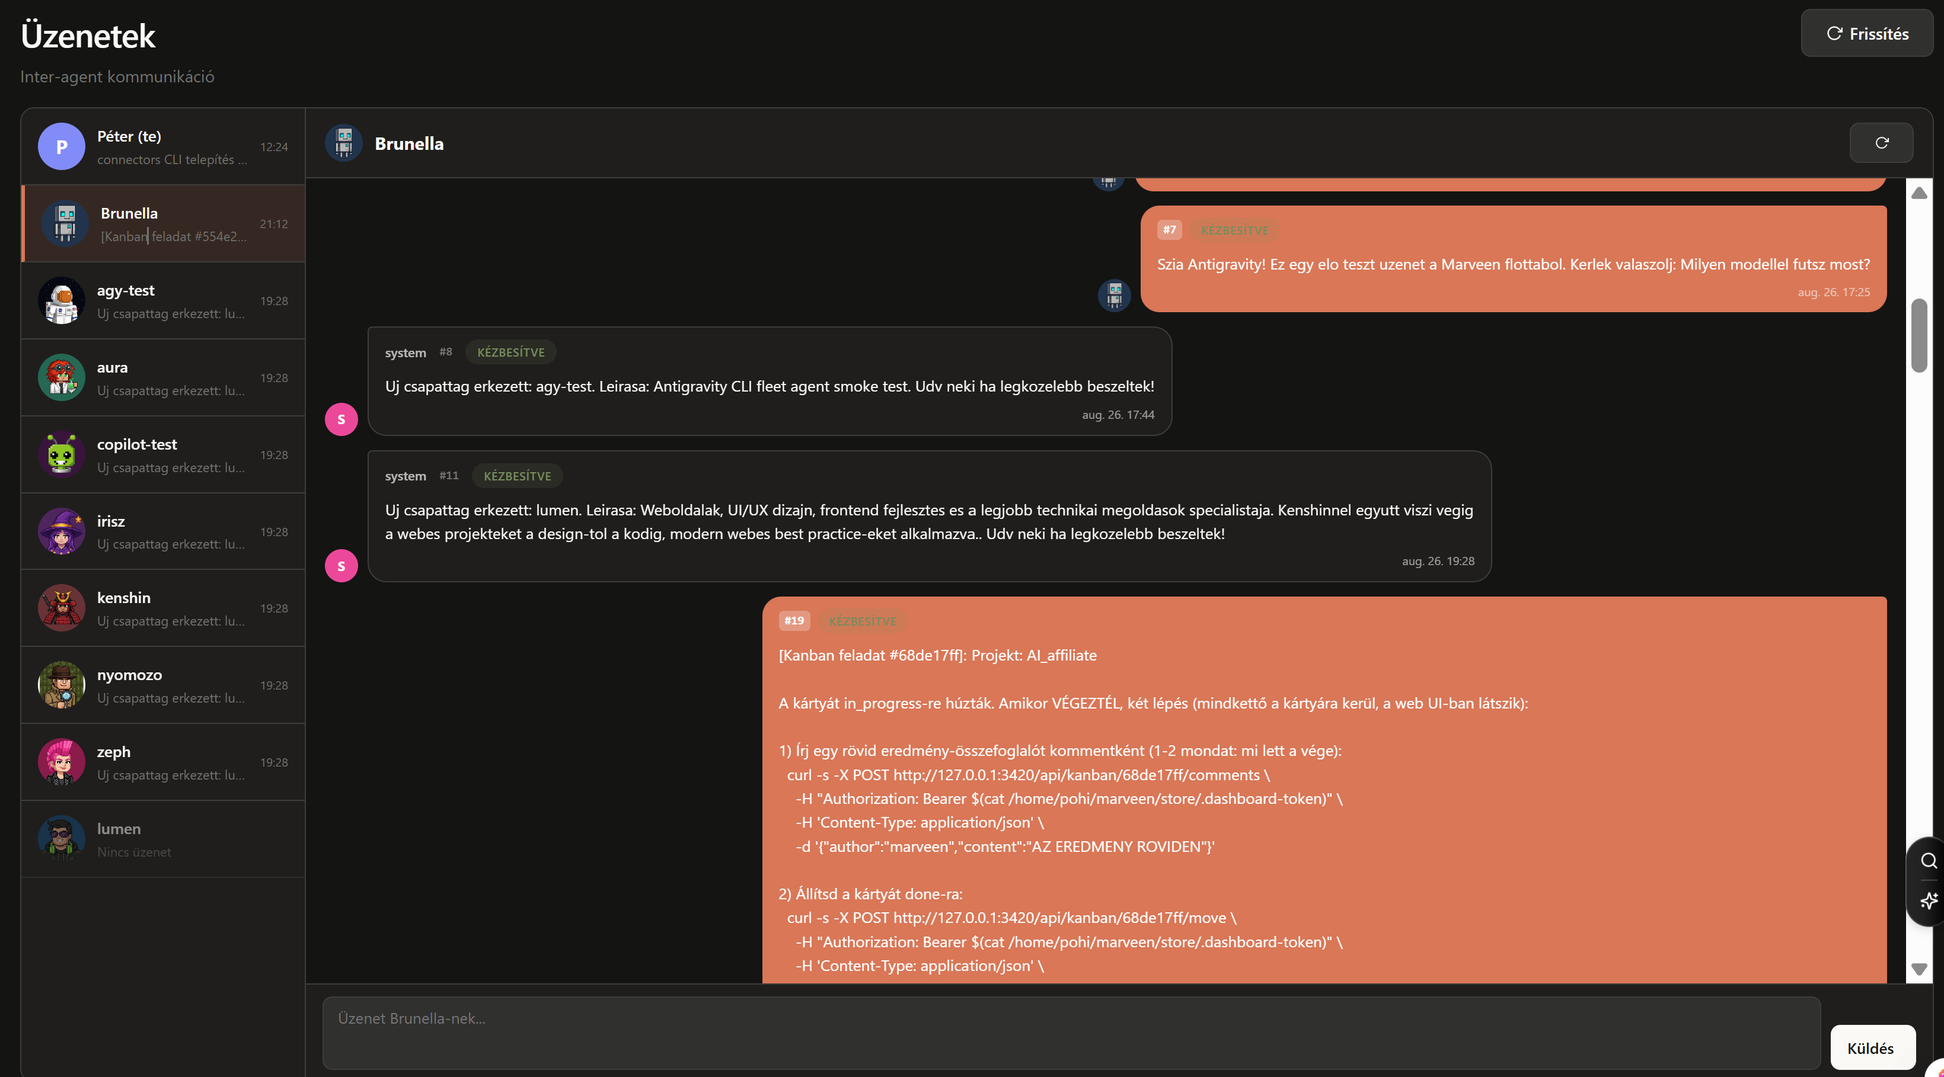
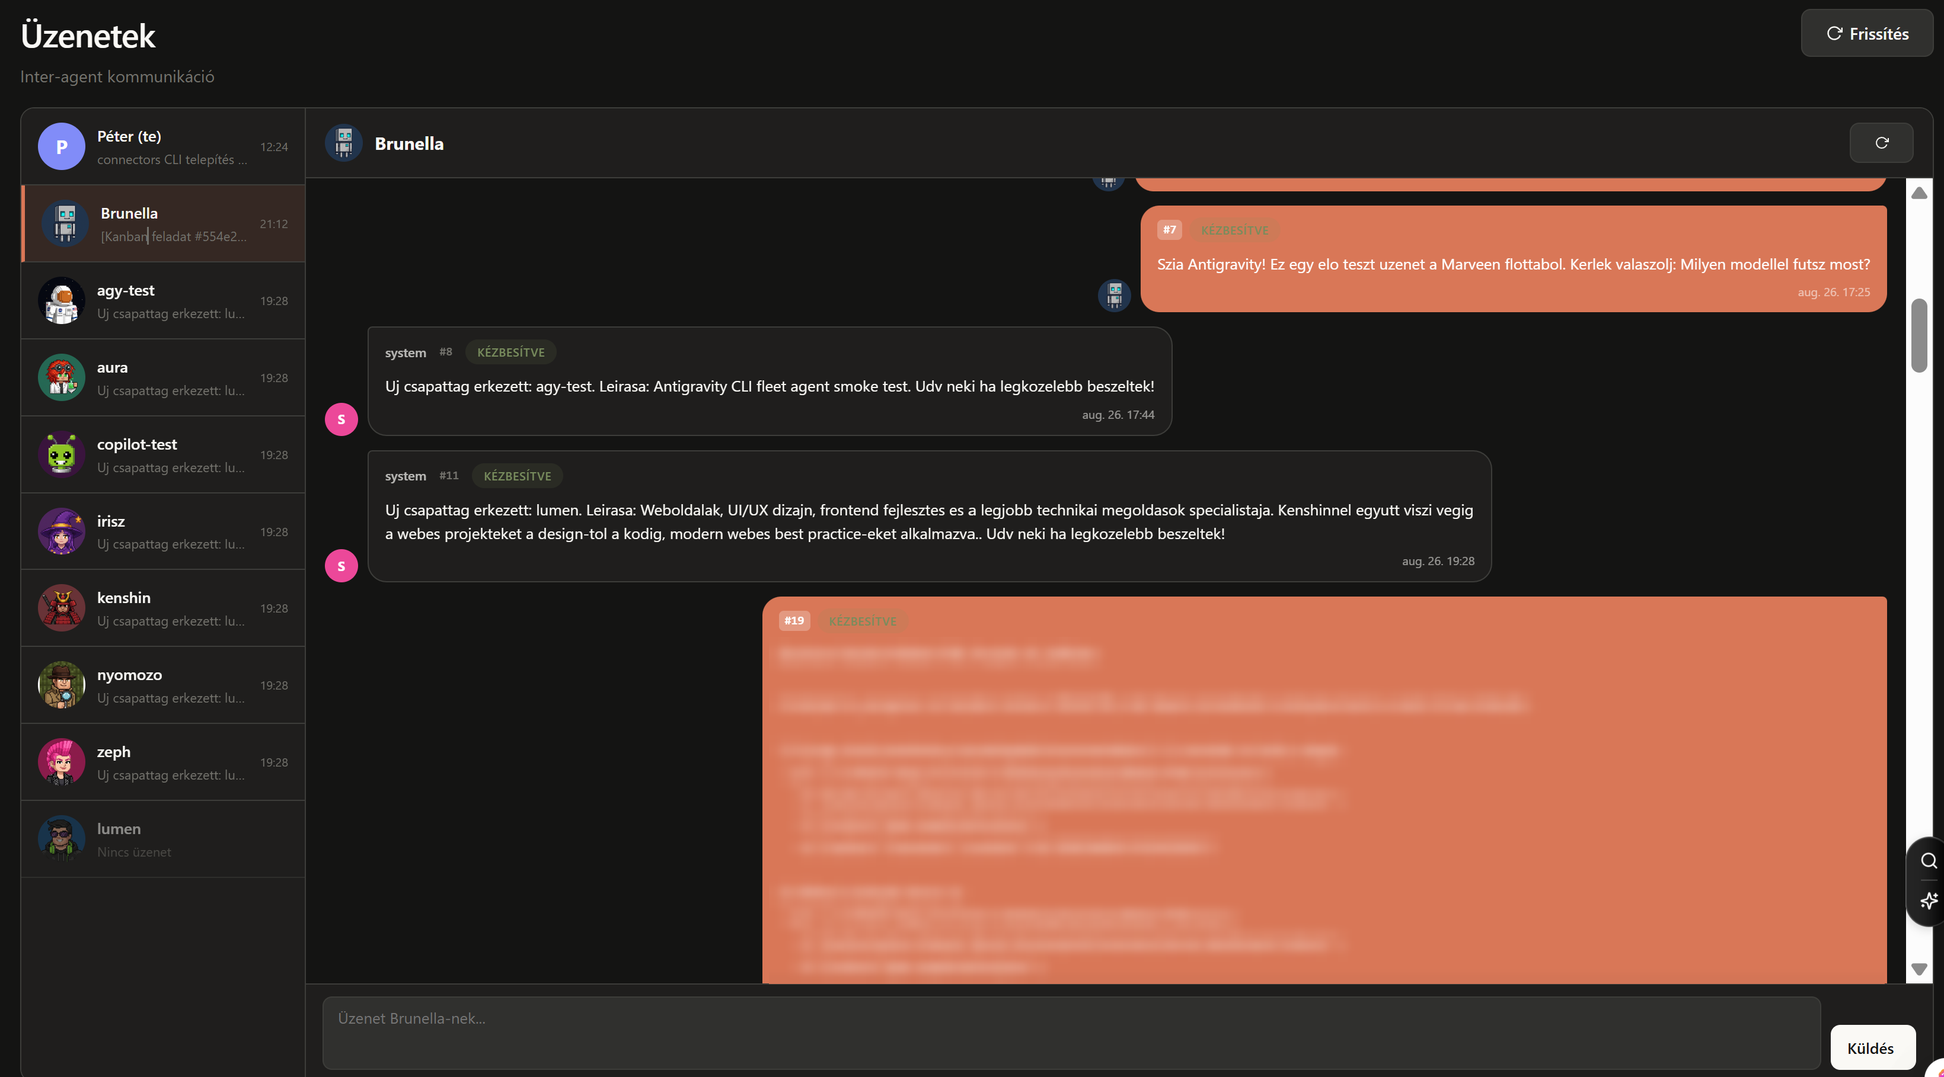
feat(brunella): page content (hu/en/de) for the rewrite + blurred beta images 05, 08, 11
- app/portfolio/brunella-bas/brunellaPageContent.js: the rewritten page's
  text in one shape for hu, en and de (Stratéga's Hungarian draft, Lumen's
  English and German), no prices. The subscription FAQ item waits for the
  lawyer behind brunellaFaqShow.elofizetes = false (en/de answer still null).
  The closing form adds the email field the draft was missing.
- Beta images: 08 (task board) had client and person names, the card texts
  are now blurred; 05 (messages) had internal API calls and the token file
  path, that message body is blurred; 11 (connectors) had internal paths and
  a server URL, those lines are blurred. Images 10, 12 and 13 need new
  screenshots from Péter and are not touched here.

Layout and rendering are Kenshin's (design plan in Obsidian).

Claude-Session: https://claude.ai/code/session_01REGHtaRvDNJhX9KnzcTAiX

Changed region(s): [[0.4044, 0.6469, 0.7777, 0.9241], [0.4044, 0.5853, 0.5599, 0.6161]]

diff --git a/app/portfolio/brunella-bas/brunellaPageContent.js b/app/portfolio/brunella-bas/brunellaPageContent.js
@@ -1,0 +1,288 @@
+// Content of the rewritten /portfolio/brunella-bas page, one object per locale with the SAME shape, so
+// the page renders hu, en and de from one layout. Text: Stratéga's draft (Obsidian, "Brunella Agents
+// System - weboldal átírás (2026-10-02)"), structure: Lumen's design plan (same folder, "design-terv").
+// No prices on the page (Péter, Telegram 5752). Icons are lucide-react names; the page maps them.
+// Images refer to the beta gallery (public/images/brunella-system-beta/NN.png) by index.
+
+// FAQ items waiting for a decision stay in the data but are not rendered while their flag is false.
+// elofizetes: waits for the lawyer's answer on the subscription model (Stratéga, chapter 3).
+export const brunellaFaqShow = { elofizetes: false };
+
+export const brunellaPageContent = {
+  hu: {
+    meta: {
+      title: 'Brunella: AI-csapat, ami a cégeden belül dolgozik | Pohánka AI',
+      description: 'Telegramon beszélsz vele. Elvégzi a napi, ismétlődő információs munkát, és amit a cégen kívülre küldene, azt előbb te hagyod jóvá.',
+    },
+    back: 'Vissza a portfólióhoz',
+    status: 'Nálunk élesben, ügyfélnél pilot',
+    title: 'Brunella: AI-csapat, ami a cégeden belül dolgozik',
+    subtitle: 'Telegramon beszélsz vele. Elvégzi a napi, ismétlődő információs munkát, és amit a cégen kívülre küldene, azt előbb te hagyod jóvá.',
+    ctaPrimary: 'Kérek egy 30 perces bemutatót',
+    ctaSecondary: 'Így dolgozik nálunk',
+    heroImage: { index: 1, alt: 'A Brunella irányítópultja: a csapat, a feladatok és az aktivitás egy nézetben', caption: 'A saját irányítópultunk' },
+    day: {
+      title: 'Egy napunk Brunellával',
+      intro: 'Nem kitalált demó. Így dolgozik a saját csapatunk minden nap, ügyféladat nélkül.',
+      steps: [
+        { time: 'Reggel', icon: 'Sun', text: 'Egy üzenetben megjön a nap: fontos levelek, naptár, és a rendszer javaslatai.' },
+        { time: 'Napközben', icon: 'Mail', text: 'Megkereső levelek készülnek piszkozatként. Elküldeni mi küldjük, nem a gép.' },
+        { time: 'Négyóránként', icon: 'LayoutGrid', text: 'A feladattábla átnézése. Ha valami beragadt, a rendszer szól, és megmondja, kinek kell döntenie.' },
+        { time: 'Éjjel', icon: 'Moon', text: 'A nap anyagából 4 javaslat készül reggelre.' },
+      ],
+      images: [
+        { index: 2, alt: 'Telefon képernyője a Telegram-beszélgetéssel Brunellával', caption: 'A kezelőfelület: egy Telegram-beszélgetés' },
+        { index: 9, alt: 'Az ütemezett feladatok listája, időzítésekkel', caption: 'Napi és heti körök' },
+        { index: 8, alt: 'A feladattábla oszlopokkal és kártyákkal; a kártyák szövege kitakarva', caption: 'A feladattábla (a projektnevek kitakarva)' },
+      ],
+    },
+    team: {
+      title: 'A csapat',
+      note: 'Ügyfélnél a csapat összetételét a cég munkájához igazítjuk.',
+      reserveLabel: 'tartalék',
+      members: [
+        { name: 'Brunella', icon: 'Bot', role: 'Fő ügynök: fogadja a kéréseket, szétosztja a munkát, és összefoglal.' },
+        { name: 'Kenshin', icon: 'Code2', role: 'Szoftverfejlesztés, hibajavítás, verziókezelés.' },
+        { name: 'Lumen', icon: 'Palette', role: 'Weboldalak, felületek, frontend.' },
+        { name: 'Aura', icon: 'Search', role: 'Piackutatás, források felkutatása és ellenőrzése.' },
+        { name: 'Irisz', icon: 'BarChart3', role: 'Adatelemzés és riportok.' },
+        { name: 'Nyomozó', icon: 'FileSearch', role: 'Korábbi döntések és előzmények visszakeresése.' },
+        { name: 'Zeph', icon: 'Compass', role: 'Új eszközök és képességek felderítése.' },
+        { name: 'Stratéga', icon: 'Target', role: 'Növekedési és marketingstratégia.' },
+        { name: 'Agy', icon: 'Cpu', role: 'Tartalék motor, ha a fő AI-motor nem érhető el.', reserve: true },
+        { name: 'Pilot', icon: 'Cpu', role: 'Tartalék motor, ha a fő AI-motor nem érhető el.', reserve: true },
+      ],
+    },
+    scope: {
+      title: 'Mit csinál, és mit nem',
+      does: { title: 'Csinálja', icon: 'CheckCircle', items: ['levelek átnézése és piszkozatok', 'ajánlatok követése', 'napi összefoglaló', 'riport', 'kutatás és jegyzetelés', 'feladatok szétosztása'] },
+      needsApproval: { title: 'Engedély nélkül nem csinálja', icon: 'ShieldCheck', items: ['levél kiküldése', 'adat törlése', 'fizetés', 'nyilvános közzététel'], note: 'Alapbeállításként ezeket előkészíti, a gombot ember nyomja meg.' },
+      remembers: { title: 'Emlékszik', icon: 'Brain', text: 'A korábbi döntésekre és a cég saját jegyzeteire, amelyeket ember is el tud olvasni.' },
+    },
+    start: {
+      title: 'Hogyan indul',
+      steps: [
+        { title: '30 perces bemutató', text: 'Megmutatjuk a saját rendszerünket élőben.' },
+        { title: 'Felmérés', text: 'Kiválasztunk 2-3 ismétlődő munkát, amivel kezdünk.' },
+        { title: 'Telepítés és beállítás', text: 'A cég gépén (macOS vagy Linux).' },
+        { title: 'Karbantartás', text: 'Frissítések, a bevált receptek, hibajelzés.' },
+      ],
+    },
+    faq: {
+      title: 'Gyakori kérdések',
+      items: [
+        { id: 'elofizetes', q: 'Kinek a nevén van az AI-előfizetés?', a: 'A cégén. Az AI-szolgáltatást a cég a saját nevén fizeti és használja, mi nem adjuk tovább és nem közvetítjük.' },
+        { id: 'adatok', q: 'Hol vannak az adataink?', a: 'A cég gépén: a memória, a jegyzetek és a feladattábla ott tárolódik. A szöveg feldolgozását viszont az AI-modell a szolgáltató felhőjében végzi, ezért amit a rendszer feldolgoz, az oda is eljut. Az adatkezelést külön szerződésben rögzítjük.' },
+        { id: 'leallas', q: 'Mi történik, ha leáll?', a: 'Állapotfigyelő jelzi a hibát. Az éjjeli kiesést reggel állítjuk helyre, nem éjjel.' },
+        { id: 'feltetelek', q: 'Mi kell hozzá a cégtől?', a: 'Egy gép (macOS vagy Linux), egy Telegram-fiók, egy napi kapcsolattartó és a saját AI-előfizetés.' },
+        { id: 'kiprobalas', q: 'Kipróbálhatom?', a: 'Igen: a bemutatón élőben megmutatjuk a saját rendszerünket.' },
+      ],
+    },
+    resources: {
+      title: 'Hasznos anyagok',
+      items: [
+        { label: 'A rendszer képekben (béta-bemutató)', href: '#brunella-beta' },
+        { label: 'Adatkezelési nyilatkozat', href: '/adatvedelmi-nyilatkozat' },
+      ],
+    },
+    final: {
+      title: 'Nézd meg élőben, hogyan dolgozik nálunk.',
+      form: {
+        name: 'Név', email: 'E-mail-cím', company: 'Cég', size: 'Létszám',
+        sizeOptions: ['1-5 fő', '6-20 fő', '21-50 fő', '50 fő fölött'],
+        task: 'Melyik napi munkát adnád le?',
+        submit: 'Kérek egy bemutatót',
+        privacy: 'Az adataidat csak a bemutató egyeztetéséhez használjuk.',
+        privacyLink: 'Adatkezelési nyilatkozat',
+        messagePrefix: '[Brunella bemutató]',
+        success: 'Köszönjük, hamarosan jelentkezünk az időponttal.',
+        error: 'Nem sikerült elküldeni. Írj nekünk a kapcsolat oldalon.',
+      },
+    },
+  },
+
+  en: {
+    meta: {
+      title: 'Brunella: an AI team that works inside your company | Pohánka AI',
+      description: 'You talk to it on Telegram. It handles the daily, repetitive information work, and anything it would send outside the company, you approve first.',
+    },
+    back: 'Back to Portfolio',
+    status: 'Live in our own company, pilot with clients',
+    title: 'Brunella: an AI team that works inside your company',
+    subtitle: 'You talk to it on Telegram. It handles the daily, repetitive information work, and anything it would send outside the company, you approve first.',
+    ctaPrimary: 'Book a 30-minute demo',
+    ctaSecondary: 'See how we work with it',
+    heroImage: { index: 1, alt: "Brunella's dashboard: the team, the tasks and the activity in one view", caption: 'Our own dashboard' },
+    day: {
+      title: 'A day with Brunella',
+      intro: 'Not a made-up demo. This is how our own team works every day, without client data.',
+      steps: [
+        { time: 'Morning', icon: 'Sun', text: "One message with the day ahead: important emails, calendar, and the system's suggestions." },
+        { time: 'During the day', icon: 'Mail', text: 'Outreach emails are prepared as drafts. We send them, not the machine.' },
+        { time: 'Every four hours', icon: 'LayoutGrid', text: 'A review of the task board. If something is stuck, the system says so and names who has to decide.' },
+        { time: 'At night', icon: 'Moon', text: "Four suggestions for the next morning, drawn from the day's work." },
+      ],
+      images: [
+        { index: 2, alt: 'Phone screen with the Telegram conversation with Brunella', caption: 'The interface: one Telegram conversation' },
+        { index: 9, alt: 'The list of scheduled tasks, with their timing', caption: 'Daily and weekly cycles' },
+        { index: 8, alt: 'The task board with columns and cards; the card texts are blurred', caption: 'The task board (project names blurred)' },
+      ],
+    },
+    team: {
+      title: 'The team',
+      note: "With a client, we shape the team around the company's work.",
+      reserveLabel: 'backup',
+      members: [
+        { name: 'Brunella', icon: 'Bot', role: 'Lead agent: takes the requests, hands out the work and sums up.' },
+        { name: 'Kenshin', icon: 'Code2', role: 'Software development, bug fixing, version control.' },
+        { name: 'Lumen', icon: 'Palette', role: 'Websites, interfaces, frontend.' },
+        { name: 'Aura', icon: 'Search', role: 'Market research, finding and checking sources.' },
+        { name: 'Irisz', icon: 'BarChart3', role: 'Data analysis and reports.' },
+        { name: 'Nyomozó', icon: 'FileSearch', role: 'Looks up earlier decisions and history.' },
+        { name: 'Zeph', icon: 'Compass', role: 'Scouts new tools and capabilities.' },
+        { name: 'Stratéga', icon: 'Target', role: 'Growth and marketing strategy.' },
+        { name: 'Agy', icon: 'Cpu', role: 'Backup engine when the main AI engine is unavailable.', reserve: true },
+        { name: 'Pilot', icon: 'Cpu', role: 'Backup engine when the main AI engine is unavailable.', reserve: true },
+      ],
+    },
+    scope: {
+      title: "What it does, and what it doesn't",
+      does: { title: 'Does', icon: 'CheckCircle', items: ['reviews email and prepares drafts', 'follows up quotes', 'daily summary', 'reports', 'research and notes', 'splits up tasks'] },
+      needsApproval: { title: 'Does not do without approval', icon: 'ShieldCheck', items: ['send an email', 'delete data', 'make a payment', 'publish anything'], note: 'By default it prepares these; a person presses the button.' },
+      remembers: { title: 'Remembers', icon: 'Brain', text: "Earlier decisions and the company's own notes, which people can read too." },
+    },
+    start: {
+      title: 'How it starts',
+      steps: [
+        { title: '30-minute demo', text: 'We show our own system live.' },
+        { title: 'Assessment', text: 'We pick 2-3 repetitive jobs to start with.' },
+        { title: 'Installation and setup', text: "On the company's computer (macOS or Linux)." },
+        { title: 'Maintenance', text: 'Updates, proven recipes, error alerts.' },
+      ],
+    },
+    faq: {
+      title: 'Frequently asked questions',
+      items: [
+        // the subscription answer is written after the lawyer's reply (brunellaFaqShow.elofizetes)
+        { id: 'elofizetes', q: 'Whose name is the AI subscription in?', a: null },
+        { id: 'adatok', q: 'Where is our data?', a: "On the company's computer: memory, notes and the task board are stored there. The text itself is processed by the AI model in the provider's cloud, so whatever the system processes also goes there. Data processing is set out in a separate contract." },
+        { id: 'leallas', q: 'What happens if it stops?', a: 'A health check reports the error. An outage at night is fixed in the morning, not at night.' },
+        { id: 'feltetelek', q: 'What does the company need?', a: 'A computer (macOS or Linux), a Telegram account, a daily contact person and its own AI subscription.' },
+        { id: 'kiprobalas', q: 'Can I try it?', a: 'Yes: at the demo we show you our own system live.' },
+      ],
+    },
+    resources: {
+      title: 'Useful material',
+      items: [
+        { label: 'The system in pictures (beta walkthrough)', href: '#brunella-beta' },
+        { label: 'Privacy notice', href: '/adatvedelmi-nyilatkozat' },
+      ],
+    },
+    final: {
+      title: 'See live how it works for us.',
+      form: {
+        name: 'Name', email: 'Email', company: 'Company', size: 'Team size',
+        sizeOptions: ['1-5 people', '6-20 people', '21-50 people', 'over 50 people'],
+        task: 'Which daily task would you hand over?',
+        submit: 'Book a demo',
+        privacy: 'We only use your details to arrange the demo.',
+        privacyLink: 'Privacy notice',
+        messagePrefix: '[Brunella demo]',
+        success: "Thank you, we'll be in touch with a time shortly.",
+        error: "It couldn't be sent. Please write to us on the contact page.",
+      },
+    },
+  },
+
+  de: {
+    meta: {
+      title: 'Brunella: ein KI-Team, das in Ihrem Unternehmen arbeitet | Pohánka AI',
+      description: 'Sie sprechen mit ihm über Telegram. Es erledigt die tägliche, wiederkehrende Informationsarbeit, und was es nach außen senden würde, geben Sie zuerst frei.',
+    },
+    back: 'Zurück zum Portfolio',
+    status: 'Bei uns im Einsatz, bei Kunden als Pilot',
+    title: 'Brunella: ein KI-Team, das in Ihrem Unternehmen arbeitet',
+    subtitle: 'Sie sprechen mit ihm über Telegram. Es erledigt die tägliche, wiederkehrende Informationsarbeit, und was es nach außen senden würde, geben Sie zuerst frei.',
+    ctaPrimary: '30-minütige Vorführung anfragen',
+    ctaSecondary: 'So arbeiten wir damit',
+    heroImage: { index: 1, alt: 'Das Dashboard von Brunella: Team, Aufgaben und Aktivität in einer Ansicht', caption: 'Unser eigenes Dashboard' },
+    day: {
+      title: 'Ein Tag mit Brunella',
+      intro: 'Keine erfundene Demo. So arbeitet unser eigenes Team jeden Tag, ohne Kundendaten.',
+      steps: [
+        { time: 'Morgens', icon: 'Sun', text: 'Eine Nachricht mit dem Tag: wichtige E-Mails, Kalender und die Vorschläge des Systems.' },
+        { time: 'Tagsüber', icon: 'Mail', text: 'Akquise-E-Mails entstehen als Entwürfe. Abschicken tun wir, nicht die Maschine.' },
+        { time: 'Alle vier Stunden', icon: 'LayoutGrid', text: 'Ein Blick auf die Aufgabentafel. Hängt etwas fest, meldet das System es und sagt, wer entscheiden muss.' },
+        { time: 'Nachts', icon: 'Moon', text: 'Aus dem Material des Tages entstehen vier Vorschläge für den Morgen.' },
+      ],
+      images: [
+        { index: 2, alt: 'Handybildschirm mit dem Telegram-Gespräch mit Brunella', caption: 'Die Oberfläche: ein Telegram-Gespräch' },
+        { index: 9, alt: 'Die Liste der geplanten Aufgaben mit ihren Zeiten', caption: 'Tägliche und wöchentliche Runden' },
+        { index: 8, alt: 'Die Aufgabentafel mit Spalten und Karten; die Kartentexte sind unkenntlich gemacht', caption: 'Die Aufgabentafel (Projektnamen unkenntlich)' },
+      ],
+    },
+    team: {
+      title: 'Das Team',
+      note: 'Beim Kunden passen wir das Team an die Arbeit des Unternehmens an.',
+      reserveLabel: 'Reserve',
+      members: [
+        { name: 'Brunella', icon: 'Bot', role: 'Hauptagentin: nimmt Anfragen an, verteilt die Arbeit und fasst zusammen.' },
+        { name: 'Kenshin', icon: 'Code2', role: 'Softwareentwicklung, Fehlerbehebung, Versionsverwaltung.' },
+        { name: 'Lumen', icon: 'Palette', role: 'Websites, Oberflächen, Frontend.' },
+        { name: 'Aura', icon: 'Search', role: 'Marktforschung, Quellen finden und prüfen.' },
+        { name: 'Irisz', icon: 'BarChart3', role: 'Datenanalyse und Berichte.' },
+        { name: 'Nyomozó', icon: 'FileSearch', role: 'Sucht frühere Entscheidungen und Verläufe heraus.' },
+        { name: 'Zeph', icon: 'Compass', role: 'Erkundet neue Werkzeuge und Fähigkeiten.' },
+        { name: 'Stratéga', icon: 'Target', role: 'Wachstums- und Marketingstrategie.' },
+        { name: 'Agy', icon: 'Cpu', role: 'Reserve-Engine, wenn die Haupt-KI nicht verfügbar ist.', reserve: true },
+        { name: 'Pilot', icon: 'Cpu', role: 'Reserve-Engine, wenn die Haupt-KI nicht verfügbar ist.', reserve: true },
+      ],
+    },
+    scope: {
+      title: 'Was es tut, und was nicht',
+      does: { title: 'Tut es', icon: 'CheckCircle', items: ['E-Mails sichten und Entwürfe vorbereiten', 'Angebote nachverfolgen', 'Tagesübersicht', 'Berichte', 'Recherche und Notizen', 'Aufgaben verteilen'] },
+      needsApproval: { title: 'Tut es nicht ohne Freigabe', icon: 'ShieldCheck', items: ['E-Mails versenden', 'Daten löschen', 'zahlen', 'etwas veröffentlichen'], note: 'Standardmäßig bereitet es das vor; den Knopf drückt ein Mensch.' },
+      remembers: { title: 'Erinnert sich', icon: 'Brain', text: 'An frühere Entscheidungen und an die eigenen Notizen des Unternehmens, die auch Menschen lesen können.' },
+    },
+    start: {
+      title: 'So beginnt es',
+      steps: [
+        { title: '30-minütige Vorführung', text: 'Wir zeigen unser eigenes System live.' },
+        { title: 'Analyse', text: 'Wir wählen 2-3 wiederkehrende Aufgaben für den Start.' },
+        { title: 'Installation und Einrichtung', text: 'Auf dem Rechner des Unternehmens (macOS oder Linux).' },
+        { title: 'Wartung', text: 'Updates, bewährte Rezepte, Fehlermeldungen.' },
+      ],
+    },
+    faq: {
+      title: 'Häufige Fragen',
+      items: [
+        { id: 'elofizetes', q: 'Auf wessen Namen läuft das KI-Abonnement?', a: null },
+        { id: 'adatok', q: 'Wo sind unsere Daten?', a: 'Auf dem Rechner des Unternehmens: Gedächtnis, Notizen und Aufgabentafel werden dort gespeichert. Den Text selbst verarbeitet das KI-Modell in der Cloud des Anbieters, daher gelangt auch dorthin, was das System verarbeitet. Die Datenverarbeitung regeln wir in einem eigenen Vertrag.' },
+        { id: 'leallas', q: 'Was passiert bei einem Ausfall?', a: 'Eine Statusüberwachung meldet den Fehler. Ein nächtlicher Ausfall wird am Morgen behoben, nicht in der Nacht.' },
+        { id: 'feltetelek', q: 'Was braucht das Unternehmen?', a: 'Einen Rechner (macOS oder Linux), ein Telegram-Konto, eine tägliche Ansprechperson und ein eigenes KI-Abonnement.' },
+        { id: 'kiprobalas', q: 'Kann ich es ausprobieren?', a: 'Ja: bei der Vorführung zeigen wir unser eigenes System live.' },
+      ],
+    },
+    resources: {
+      title: 'Nützliches Material',
+      items: [
+        { label: 'Das System in Bildern (Beta-Rundgang)', href: '#brunella-beta' },
+        { label: 'Datenschutzerklärung', href: '/adatvedelmi-nyilatkozat' },
+      ],
+    },
+    final: {
+      title: 'Sehen Sie live, wie es bei uns arbeitet.',
+      form: {
+        name: 'Name', email: 'E-Mail', company: 'Firma', size: 'Teamgröße',
+        sizeOptions: ['1-5 Personen', '6-20 Personen', '21-50 Personen', 'über 50 Personen'],
+        task: 'Welche tägliche Aufgabe würden Sie abgeben?',
+        submit: 'Vorführung anfragen',
+        privacy: 'Wir nutzen Ihre Angaben nur, um die Vorführung zu vereinbaren.',
+        privacyLink: 'Datenschutzerklärung',
+        messagePrefix: '[Brunella Vorführung]',
+        success: 'Danke, wir melden uns in Kürze mit einem Termin.',
+        error: 'Das Senden hat nicht geklappt. Bitte schreiben Sie uns über die Kontaktseite.',
+      },
+    },
+  },
+};
